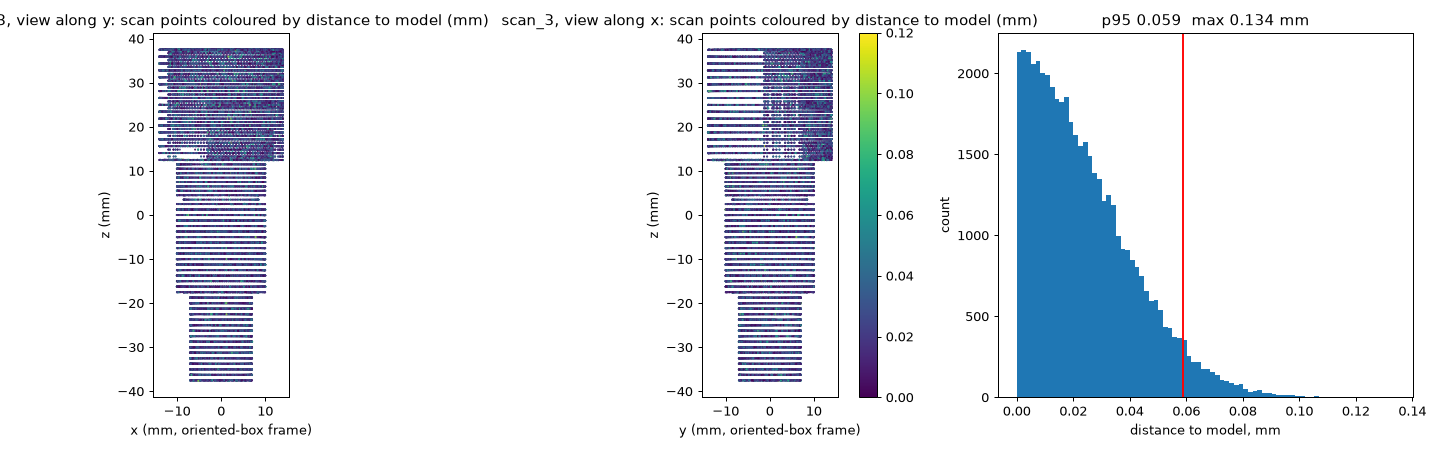
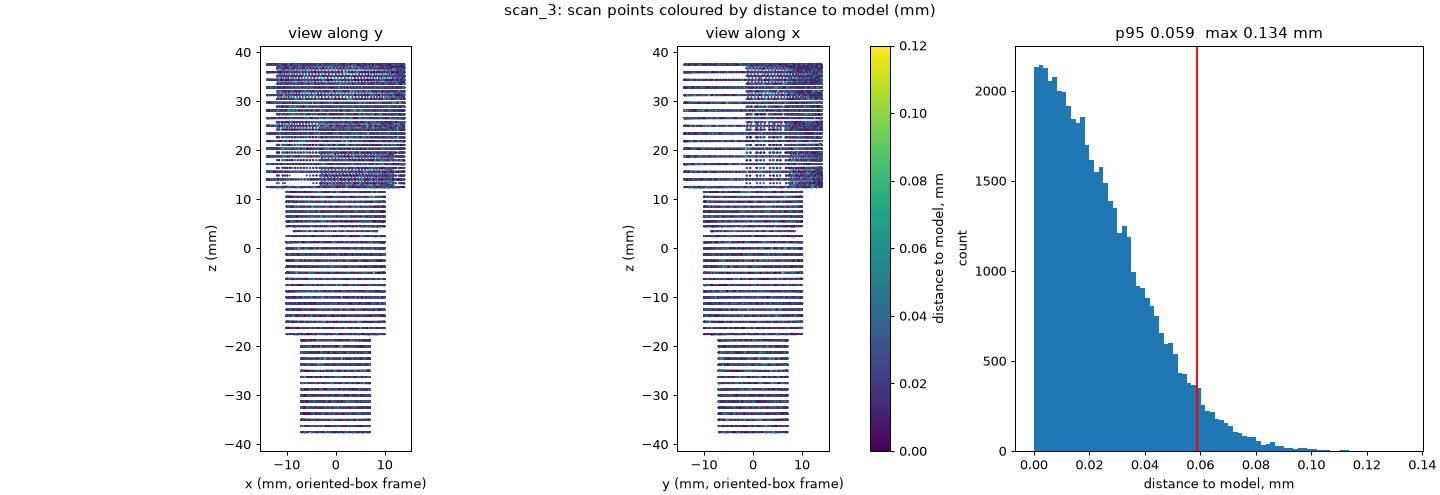
Deviation plots: shared title and colour bar, short panel titles

Changed region(s): [[0.0, 0.0, 1.0, 0.9956], [0.4375, 0.6844, 0.4688, 0.7156], [0.25, 0.9022, 0.2812, 0.9333]]

diff --git a/solution/verify.py b/solution/verify.py
@@ -52,16 +52,17 @@ for i in (1, 2, 3):
     # deviation picture: scan points coloured by distance to the model, two views
     to, _ = trimesh.bounds.oriented_bounds(m)
     P = (to @ np.c_[pts, np.ones(len(pts))].T).T[:, :3]
-    fig, ax = plt.subplots(1, 3, figsize=(16, 5))
+    fig, ax = plt.subplots(1, 3, figsize=(16, 5.5), layout='constrained')
+    fig.suptitle(f'scan_{i}: scan points coloured by distance to model (mm)')
     for k, (u, v) in enumerate(((0, 2), (1, 2))):
         sc = ax[k].scatter(P[:, u], P[:, v], c=dist, s=0.3, cmap='viridis', vmin=0, vmax=0.12)
         ax[k].set_aspect('equal')
-        ax[k].set_title(f'scan_{i}, view along {"yx"[k]}: scan points coloured by distance to model (mm)')
+        ax[k].set_title(f'view along {"yx"[k]}')
         ax[k].set_xlabel(f'{"xy"[k]} (mm, oriented-box frame)'); ax[k].set_ylabel('z (mm)')
-    plt.colorbar(sc, ax=ax[1])
+    fig.colorbar(sc, ax=[ax[0], ax[1]], label='distance to model, mm')
     ax[2].hist(dist, bins=80); ax[2].axvline(p95, color='r'); ax[2].set_title(f'p95 {p95:.3f}  max {mx:.3f} mm')
     ax[2].set_xlabel('distance to model, mm'); ax[2].set_ylabel('count')
-    fig.tight_layout(); fig.savefig(f'solution/img/deviation_{i}.png', dpi=90); plt.close(fig)
+    fig.savefig(f'solution/img/deviation_{i}.png', dpi=90); plt.close(fig)
 rep["failed"] = fails
 json.dump(rep, open('solution/report.json', 'w'), indent=1, default=float)
 print('failed:', fails)
